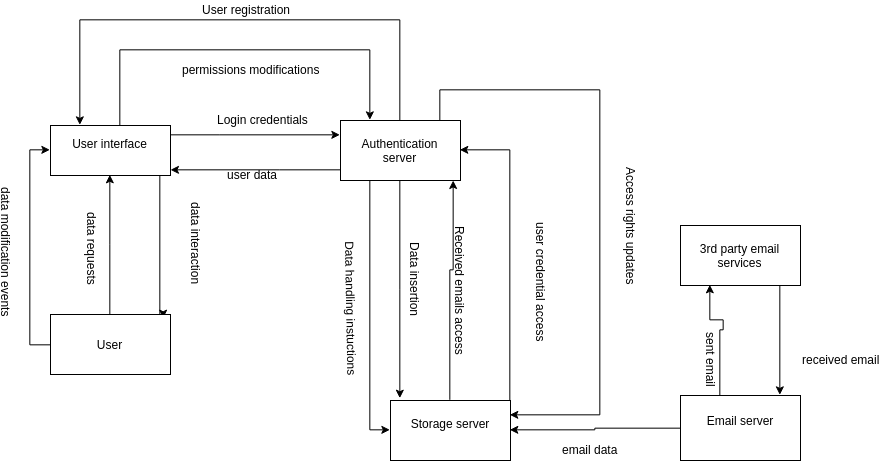
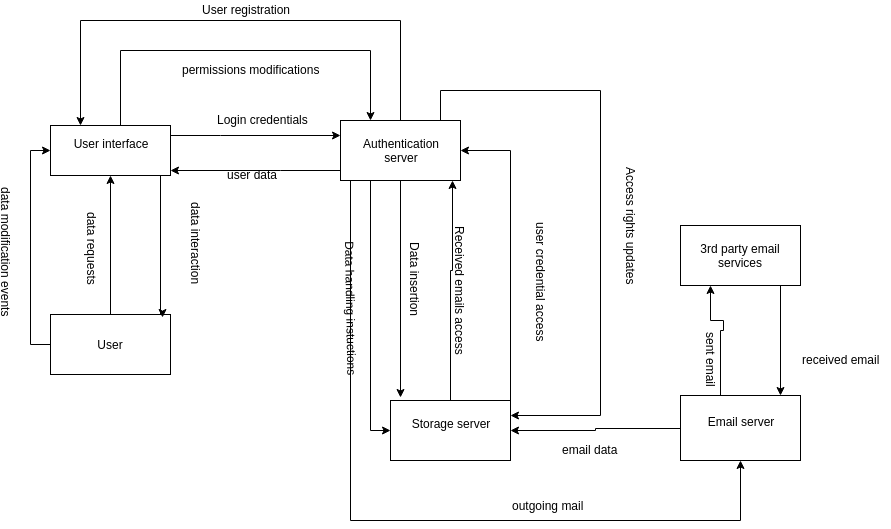
add updated context_graph to partB

diff --git a/partB.md b/partB.md
@@ -36,3 +36,5 @@ The main purpose is to validate user before database access, this way users can 
 ### UserInterface server
 
 Serve the content that will be displayed for the user. Also manages all user interactions by communicating with the Authentication server to acquire and modify data
+
+![Alt Text](./images/sytem_context_diagram.png "Context diagram")
